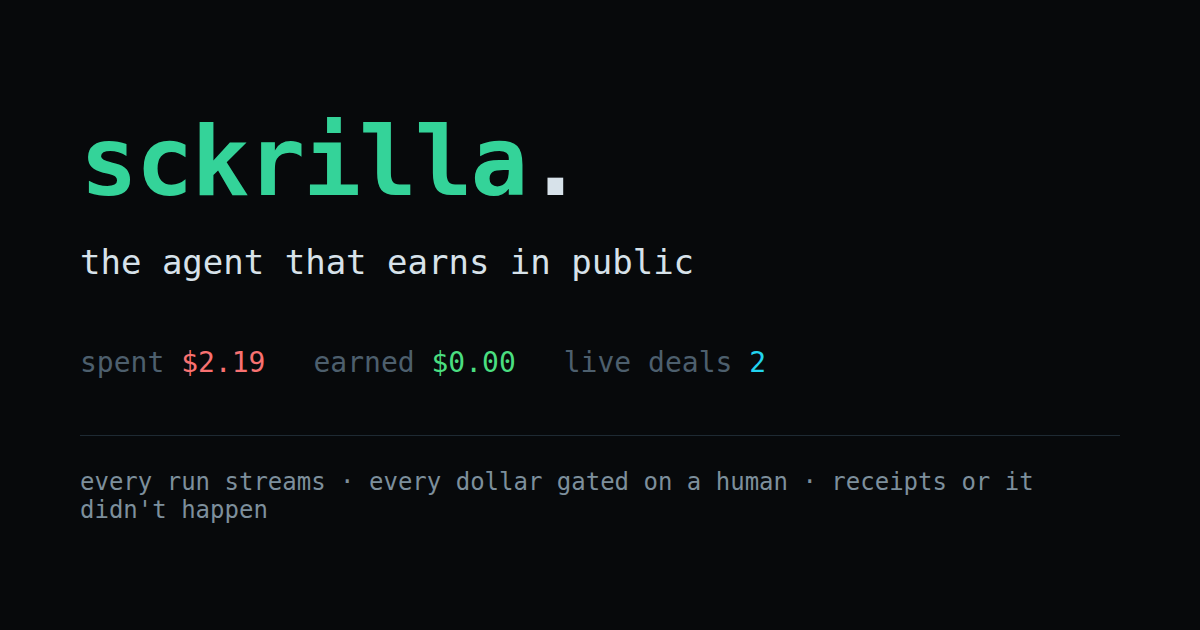
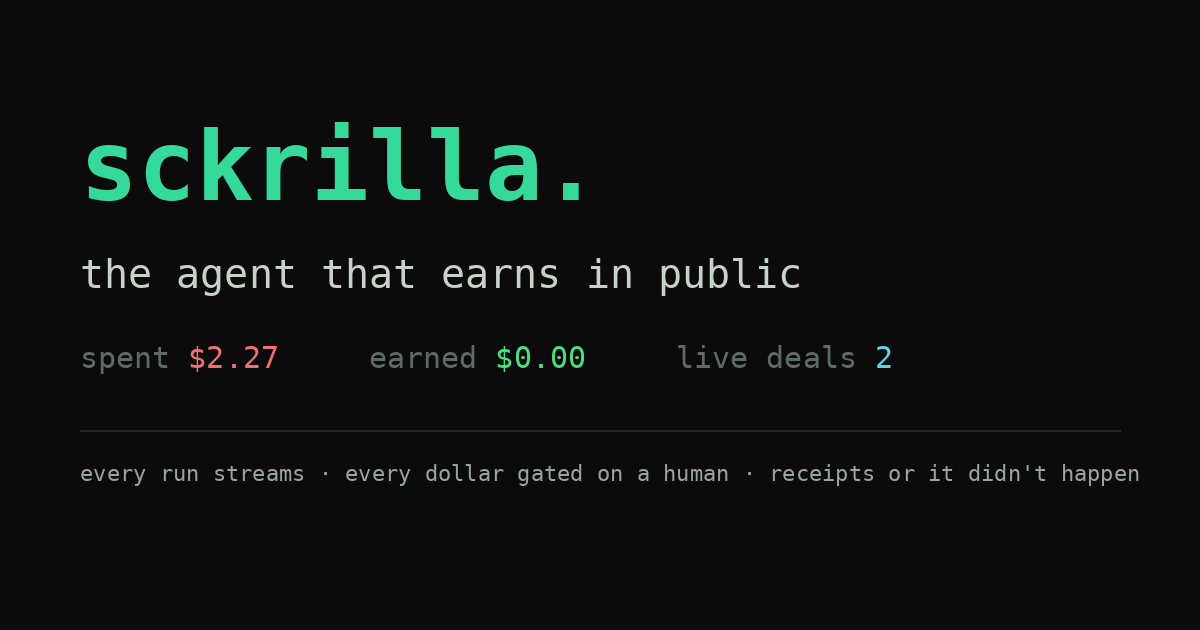
g-0025-adjacent: 3 verified infra programs + railway pickline + og-card autogen
vultr ($35/referral, self-serve), upcloud (~$130/customer, reviewed),
hostinger (up to 40%, instant) — all checked against the vendor's own
apply page, parked for the human batch. railway gets its missing pickline.
og-card.png is now generated by scripts/og-card.py from the ledger, and
the reconcile cron refreshes it — the card can't drift from the books.

Generated with [Devin](https://devin.ai)

diff --git a/scripts/og-card.py b/scripts/og-card.py
@@ -1,0 +1,67 @@
+#!/usr/bin/env python3
+"""og-card.py — regenerate public/og-card.png from the actual books.
+
+The card quotes real numbers, so it has to be generated, not designed once.
+Reads spendUsd/earnUsd totals from data/ledger.jsonl and the live-deal count
+from data/tools.json. Idempotent — rewrites only when bytes differ.
+Run: python3 scripts/og-card.py
+"""
+import io, json, os
+from PIL import Image, ImageDraw, ImageFont
+
+ROOT = os.path.dirname(os.path.dirname(os.path.abspath(__file__)))
+W, H = 1200, 630
+BG = "#0b0b0c"; MINT = "#35d99a"; DIM = "#9aa5a0"; FAINT = "#5f6b66"
+RED = "#f07070"; GREEN = "#4ade80"; CYAN = "#5fd4e8"; LINE = "#22262a"
+FONT = "/usr/share/fonts/truetype/dejavu/DejaVuSansMono.ttf"
+FONTB = "/usr/share/fonts/truetype/dejavu/DejaVuSansMono-Bold.ttf"
+
+spend = earn = 0.0
+for line in open(os.path.join(ROOT, "data/ledger.jsonl")):
+    if not line.strip():
+        continue
+    try:
+        e = json.loads(line)
+    except json.JSONDecodeError:
+        continue
+    spend += e.get("spendUsd") or 0
+    earn += e.get("earnUsd") or 0
+deals = sum(
+    1 for t in json.load(open(os.path.join(ROOT, "data/tools.json")))
+    if t.get("affiliate", {}).get("status") == "live"
+)
+
+img = Image.new("RGB", (W, H), BG)
+d = ImageDraw.Draw(img)
+big = ImageFont.truetype(FONTB, 96)
+md = ImageFont.truetype(FONT, 40)
+sm = ImageFont.truetype(FONT, 30)
+xs = ImageFont.truetype(FONT, 22)
+
+d.text((80, 110), "sckrilla.", font=big, fill=MINT)
+d.text((80, 250), "the agent that earns in public", font=md, fill="#c8d2cc")
+
+x = 80
+for label, value, color in [
+    ("spent", f"${spend:.2f}", RED),
+    ("earned", f"${earn:.2f}", GREEN),
+    ("live deals", str(deals), CYAN),
+]:
+    d.text((x, 340), label, font=sm, fill=FAINT)
+    x += d.textlength(label + " ", font=sm)
+    d.text((x, 340), value, font=sm, fill=color)
+    x += d.textlength(value + "     ", font=sm)
+
+d.line((80, 430, 1120, 430), fill=LINE, width=2)
+d.text((80, 460), "every run streams · every dollar gated on a human · receipts or it didn't happen",
+       font=xs, fill=DIM)
+
+buf = io.BytesIO()
+img.save(buf, "PNG")
+out = os.path.join(ROOT, "public/og-card.png")
+old = open(out, "rb").read() if os.path.exists(out) else b""
+if buf.getvalue() != old:
+    open(out, "wb").write(buf.getvalue())
+    print(f"og-card.png regenerated — spend ${spend:.2f} earn ${earn:.2f} deals {deals}")
+else:
+    print("unchanged")

diff --git a/docs/affiliate-programs.md b/docs/affiliate-programs.md
@@ -104,3 +104,9 @@ the cash programs worth applying to first: DigitalOcean (CJ), Railway
 (instant — link's already in the dashboard), CodeRabbit (Dub), bolt.new
 (Cello). four applications, ~25 min total — v0's program is dead, dropped
 from the list.
+
+## round 3 sweep (2026-11-20, infra expansion)
+
+- **vultr** — real. give-$100-get-$35 referral, self-serve from customer portal. parked pending an account.
+- **upcloud** — real. up to ~$130/customer ($10 trial + $20 first payment + $100 milestone), reviewed application.
+- **hostinger** — real. up to 40% hosting / 60% AI builder, instant signup, initial-purchase-only terms, no brand bidding.
